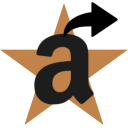
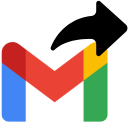
modify project to extract gmail messages

diff --git a/content.js b/content.js
@@ -1,163 +1,21 @@
-// ---------------------
-// Wait for reviews to appear
-function waitForReviews(timeout = 10000) {
-  return new Promise((resolve, reject) => {
-    let reviews = document.querySelectorAll("[data-hook='review']");
-    const noReviewsMessage = document.body.innerText.includes("Sorry, no reviews match your current selections.");
-    if (reviews.length > 0 && !noReviewsMessage) {
-      console.log("Reviews already loaded: " + reviews.length);
-      resolve();
-    } else if (noReviewsMessage) {
-      console.warn("No reviews found on current page (selection message detected).");
-      resolve();
-    } else {
-      let interval = setInterval(() => {
-        reviews = document.querySelectorAll("[data-hook='review']");
-        const noReviewsNow = document.body.innerText.includes("Sorry, no reviews match your current selections.");
-        if (reviews.length > 0 && !noReviewsNow) {
-          clearInterval(interval);
-          clearTimeout(timeoutId);
-          console.log("Reviews loaded after waiting: " + reviews.length);
-          resolve();
-        } else if (noReviewsNow) {
-          clearInterval(interval);
-          clearTimeout(timeoutId);
-          console.warn("No reviews found (selection message detected) after waiting.");
-          resolve();
-        }
-      }, 500);
-      let timeoutId = setTimeout(() => {
-        clearInterval(interval);
-        console.error("Timeout waiting for reviews");
-        reject(new Error("Timeout waiting for reviews"));
-      }, timeout);
-    }
+// content.js - Extract emails from Gmail's filtered view
+
+function extractEmails() {
+  let emails = [];
+  document.querySelectorAll(".zA").forEach(email => {
+      let sender = email.querySelector(".yX .yW span")?.innerText.trim() || "No Sender";
+      let subject = email.querySelector(".bog span")?.innerText.trim() || "No Subject";
+      let body = email.querySelector(".y2")?.innerText.trim() || "No Content";
+      let date = email.querySelector(".xW .xWc")?.innerText.trim() || "No Date"; // Extract date
+
+      emails.push({ sender, subject, body, date });
   });
+  return emails;
 }
 
-// ---------------------
-// Extract reviews from current page
-function extractCurrentReviews() {
-  let reviews = [];
-  document.querySelectorAll("[data-hook='review']").forEach(review => {
-    let reviewId = review.getAttribute("id") || ""; // May be empty if not provided
-    let title = review.querySelector("[data-hook='review-title']")?.innerText.trim() || "No Title";
-    let rating = review.querySelector("[data-hook='review-star-rating']")?.innerText.trim() || "No Rating";
-    let author = review.querySelector(".a-profile-name")?.innerText.trim() || "Anonymous";
-    let date = review.querySelector("[data-hook='review-date']")?.innerText.trim() || "No Date";
-    let content = review.querySelector("[data-hook='review-body'] span")?.innerText.trim() || "No Content";
-    reviews.push({ id: reviewId, title, rating, author, date, content });
-  });
-  console.log("Extracted " + reviews.length + " reviews from current page.");
-  return reviews;
-}
-
-// ---------------------
-// Iteratively extract reviews across pages with state persistence
-async function extractAllReviews() {
-  let allReviews = [];
-  let reviewIds = new Set();
-  let pageCount = 0;
-  const maxPages = 150; // Maximum pages to iterate over
-
-  while (true) {
-    pageCount++;
-    console.log("Processing page: " + pageCount);
-    
-    try {
-      await waitForReviews();
-    } catch (error) {
-      console.error("Error waiting for reviews on page " + pageCount + ": " + error.message);
-      break;
-    }
-    
-    let currentReviews = extractCurrentReviews();
-    let newReviews = currentReviews.filter(review => {
-      if (review.id && reviewIds.has(review.id)) {
-        return false;
-      } else {
-        if (review.id) reviewIds.add(review.id);
-        return true;
-      }
-    });
-    console.log("Total reviews found on page " + pageCount + ": " + newReviews.length);
-    
-    allReviews = allReviews.concat(newReviews);
-    
-    // Check for the next page button container
-    let liElement = document.querySelector("li.a-last");
-    if (!liElement) {
-      console.log("li.a-last element not found. Finishing extraction.");
-      break;
-    }
-    
-    // Check if the next page button is disabled
-    if (liElement.classList.contains("a-disabled")) {
-      console.log("Next page button is disabled. Finishing extraction.");
-      break;
-    }
-    
-    // Get the clickable next page button
-    let nextButton = liElement.querySelector("a");
-    if (!nextButton) {
-      console.log("No clickable next page button found. Waiting 500ms and checking again...");
-      await new Promise(r => setTimeout(r, 500));
-      liElement = document.querySelector("li.a-last");
-      nextButton = liElement ? liElement.querySelector("a") : null;
-    }
-    
-    if (nextButton) {
-      console.log("Next page button found, clicking...");
-      nextButton.click();
-      // Wait a bit after clicking to ensure the new page starts loading
-      console.log("Waiting 2000ms after clicking next page...");
-      await new Promise(r => setTimeout(r, 2000));
-      
-      try {
-        await waitForReviews();
-      } catch (error) {
-        console.error("Error waiting for reviews on next page: " + error.message);
-        break;
-      }
-    } else {
-      console.log("No next page button found after re-check. Finishing extraction.");
-      break;
-    }
-    
-    if (pageCount >= maxPages) {
-      console.warn("Maximum page limit reached (" + maxPages + "). Stopping extraction.");
-      break;
-    }
-  }
-  
-  console.log("Extraction complete. Total unique reviews: " + allReviews.length);
-  return allReviews;
-}
-
-
-
-// ---------------------
-// Message listener from popup
 chrome.runtime.onMessage.addListener((message, sender, sendResponse) => {
-  if (message.action === "extractReviews") {
-    if (message.iterate) {
-      extractAllReviews()
-        .then(data => sendResponse({ data: data }))
-        .catch(err => {
-          console.error("Error during extraction: " + err.message);
-          sendResponse({ data: [] });
-        });
-    } else {
-      waitForReviews()
-        .then(() => {
-          let data = extractCurrentReviews();
-          sendResponse({ data: data });
-        })
-        .catch(err => {
-          console.error("Error waiting for reviews: " + err.message);
-          sendResponse({ data: [] });
-        });
-    }
-    return true; // Keeps the messaging channel open for asynchronous response
+  if (message.action === "extractEmails") {
+      let data = extractEmails();
+      sendResponse({ data: data });
   }
 });

diff --git a/popup.js b/popup.js
@@ -1,40 +1,36 @@
 document.getElementById("extract").addEventListener("click", () => {
-    document.getElementById("status").innerText = "Extracting reviews...";
-    let iterate = document.getElementById("iterate").checked;
-    
-    chrome.tabs.query({ active: true, currentWindow: true }, (tabs) => {
+  document.getElementById("status").innerText = "Extracting emails...";
+  
+  chrome.tabs.query({ active: true, currentWindow: true }, (tabs) => {
       chrome.scripting.executeScript({
-        target: { tabId: tabs[0].id },
-        files: ["content.js"]
+          target: { tabId: tabs[0].id },
+          files: ["content.js"]
       }, () => {
-        // Send a message to the content script with the iterate flag
-        chrome.tabs.sendMessage(tabs[0].id, { action: "extractReviews", iterate: iterate }, (response) => {
-          if (response && response.data) {
-            downloadCSV(response.data);
-            document.getElementById("status").innerText = `Extracted ${response.data.length} reviews!`;
-          } else {
-            document.getElementById("status").innerText = "No reviews found!";
-          }
-        });
+          chrome.tabs.sendMessage(tabs[0].id, { action: "extractEmails" }, (response) => {
+              if (response && response.data) {
+                  downloadCSV(response.data);
+                  document.getElementById("status").innerText = `Extracted ${response.data.length} emails!`;
+              } else {
+                  document.getElementById("status").innerText = "No emails found!";
+              }
+          });
       });
-    });
+  });
+});
+
+function downloadCSV(data) {
+  let csvContent = "Sender,Subject,Body,Date\n"; // Add Date column
+  data.forEach(email => {
+      let row = `"${email.sender}","${email.subject}","${email.body}","${email.date}"`;
+      csvContent += row + "\n";
   });
   
-  // Download the extracted data as a CSV file
-  function downloadCSV(data) {
-    let csvContent = "Title,Rating,Author,Date,Content\n";
-    data.forEach(review => {
-      let row = `"${review.title}","${review.rating}","${review.author}","${review.date}","${review.content}"`;
-      csvContent += row + "\n";
-    });
-    
-    let blob = new Blob([csvContent], { type: "text/csv" });
-    let url = URL.createObjectURL(blob);
-    let a = document.createElement("a");
-    a.href = url;
-    a.download = "amazon_reviews.csv";
-    document.body.appendChild(a);
-    a.click();
-    document.body.removeChild(a);
-  }
-  
+  let blob = new Blob([csvContent], { type: "text/csv" });
+  let url = URL.createObjectURL(blob);
+  let a = document.createElement("a");
+  a.href = url;
+  a.download = "gmail_emails.csv";
+  document.body.appendChild(a);
+  a.click();
+  document.body.removeChild(a);
+}

diff --git a/popup.html b/popup.html
@@ -1,7 +1,7 @@
 <!DOCTYPE html>
 <html lang="en">
 <head>
-  <title>Amazon Review Extractor</title>
+  <title>Gmail Email Extractor</title>
   <style>
     body {
       width: 300px;
@@ -11,7 +11,7 @@
     button {
       width: 100%;
       padding: 10px;
-      background-color: #FF9900;
+      background-color: #4285F4;
       color: white;
       border: none;
       cursor: pointer;
@@ -25,12 +25,8 @@
   </style>
 </head>
 <body>
-  <h2>Amazon Review Extractor</h2>
-  <!-- Checkbox to toggle iterating over pages -->
-  <input type="checkbox" id="iterate" checked />
-  <label for="iterate">Iterate over pages</label>
-  <br /><br />
-  <button id="extract">Extract Reviews</button>
+  <h2>Gmail Email Extractor</h2>
+  <button id="extract">Extract Emails</button>
   <p id="status"></p>
   <script src="popup.js"></script>
 </body>
